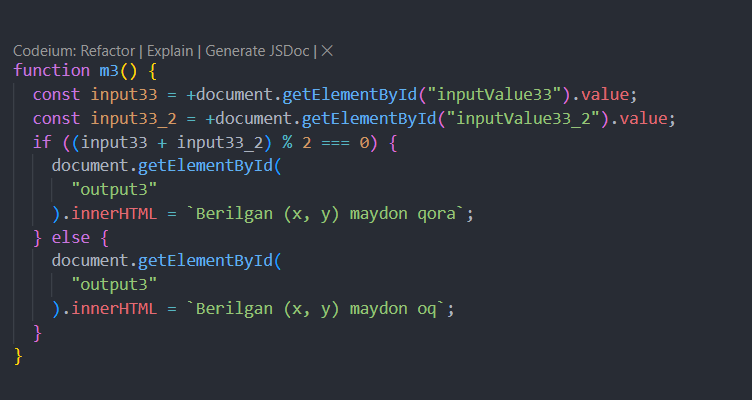
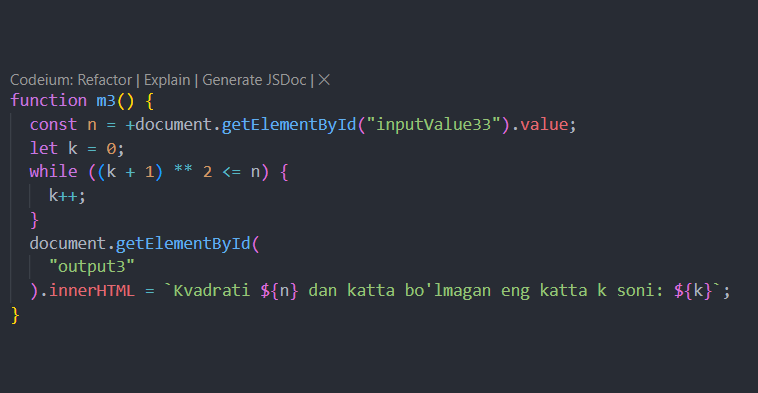
fourth ex

diff --git a/app.js b/app.js
@@ -14,51 +14,36 @@ function m2() {
 
   document.getElementById("output2").innerHTML = `Faktoriyalar soni: ${sum}`;
 }
-function m4() {
-  const input41 = +document.getElementById("inputValue4").value;
-  const input42 = +document.getElementById("inputValue4-2").value;
-  const input43 = +document.getElementById("inputValue4-3").value;
-  let disB = Math.abs(input41 - input42);
-  let disC = Math.abs(input43 - input43);
-  if (disB <= disC) {
-    document.getElementById("output4").innerHTML = `B nuqta eng yaqini.`;
-  } else if (disB >= disC) {
-    document.getElementById("output4").innerHTML = `C nuqta eng yaqini.`;
-  } else {
-    document.getElementById(
-      "output4"
-    ).innerHTML = `B va C nuqta yaqinligi birxil.`;
-  }
-}
 
-function m5() {
-  const x1 = +document.getElementById("inputValue5-1").value;
-  const y1 = +document.getElementById("inputValue5-2").value;
-  const x2 = +document.getElementById("inputValue5-3").value;
-  const y2 = +document.getElementById("inputValue5-4").value;
-  const x3 = +document.getElementById("inputValue5-5").value;
-  const y3 = +document.getElementById("inputValue5-6").value;
-  let x4;
-  let y4;
-  if (x1 === x2) {
-    x4 = x3;
-  } else if (x1 === x3) {
-    x4 = x2;
-  } else {
-    x4 = x1;
-  }
-  if (y1 === y2) {
-    y4 = y3;
-  } else if (y1 === y3) {
-    y4 = y2;
-  } else {
-    y4 = y1;
+function m3() {
+  const n = +document.getElementById("inputValue33").value;
+  let k = 0;
+  while ((k + 1) ** 2 <= n) {
+    k++;
   }
   document.getElementById(
-    "output5"
-  ).innerHTML = `To'rtinchi nuqta: (${x4}, ${y4})`;
-  console.log({ x4, y4 });
+    "output3"
+  ).innerHTML = `Kvadrati ${n} dan katta bo'lmagan eng katta k soni: ${k}`;
 }
+
+
+
+
+function m4() {
+  const n = +document.getElementById("inputValue4").value;
+  let k = 1;
+
+  while (k ** 2 <= n) {
+    k++;
+  }
+  document.getElementById(
+    "output4"
+  ).innerHTML = `Kvadrati ${n} dan katta bo'lgan eng kichik k soni: ${k}`;
+}
+
+
+
+
 
 function m6() {
   const input_61 = +document.getElementById("inputValue6_1").value;

diff --git a/index.html b/index.html
@@ -71,7 +71,7 @@
             border-radius: 10px;
             box-shadow: 0 0 10px rgba(0, 0, 0, 0.5);
           "
-          src="./images/Screenshot_1.png"
+          src="./images/Screenshot_2.png"
           alt=""
         />
       </section>
@@ -114,7 +114,6 @@
           </h2>
           <br />
           <input id="inputValue33" type="number" placeholder="x kiriting" />
-          <input id="inputValue33_2" type="number" placeholder="y kiriting" />
 
           <button class="button-85" role="button" onclick="m3()">
             Hisoblash
@@ -135,26 +134,14 @@
       </section>
       <section id="fourth">
         <div id="content">
-          <h2>
-            <span>While7. </span> Sonlar o'qida uchta A, B, C nuqtalar berilgan
-            a nuqta eng yaqin nuqta va ular orasidagi masofa topilsin
+          <h2 class="limited-line">
+            <span>While7. </span> n natural soni berilgan (n > 0). Kvadrati n
+            dan katta bo‘lmagan eng katta butun k sonini (k² <= n) aniqlovchi
+            programma tuzilsin. Ildizdan chiqaruvchi funksiyadan foydalanmang.
           </h2>
           <br />
-          <input
-            id="inputValue4"
-            type="number"
-            placeholder="A nuqtani kiriting"
-          />
-          <input
-            id="inputValue4-2"
-            type="number"
-            placeholder="B nuqtani kiriting"
-          />
-          <input
-            id="inputValue4-3"
-            type="number"
-            placeholder="C nuqtani kiriting"
-          />
+          <input id="inputValue4" type="number" placeholder="k" />
+
           <button class="button-85" role="button" onclick="m4()">
             Hisoblash
           </button>
